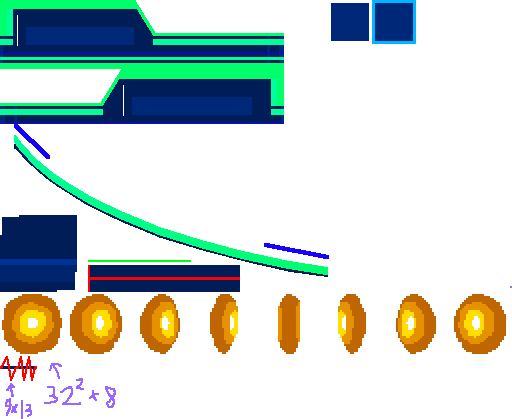
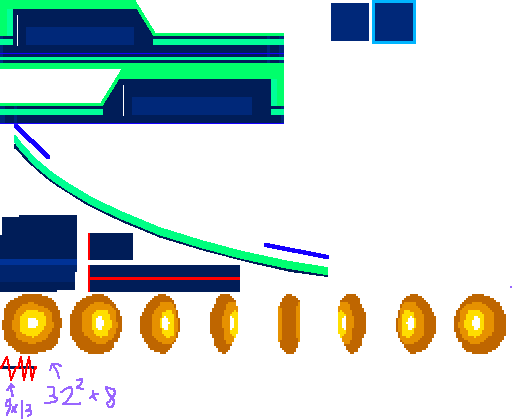
0.2.3 完善玩家细胞核健康UI界面外观和信息表达效果

Changed region(s): [[0.1562, 0.5585, 0.375, 0.6516]]

diff --git a/MadCells.cpp b/MadCells.cpp
@@ -592,7 +592,7 @@ struct Cell
 						if(block.timer<=0.0f)
 						{
 							float dist=Vector2Distance(position+block.rocate,gamecamera.target)/32.0f;
-							Bullet_pool.fire(Bullettype::spike,id,position+block.rocate,direction+block.direction-90,shake,min((15.0f/dist),1.0f)*30.0f);
+							Bullet_pool.fire(Bullettype::spike,id,position+block.rocate,direction+block.direction-90,shake,min((15.0f/dist),1.0f)*25.0f);
 							float rad=DEG2RAD*(direction+block.direction-90);
 							force(block.rocate,{cosf(rad)*-10,sinf(rad)*-10});
 							Particle_master.createparticle(Particletype::bubble,position+block.rocate,Vector2{cosf(rad)*500,sinf(rad)*500},0,Color{0,0,0,0},0,RandomInt(2,5));
@@ -1038,7 +1038,7 @@ struct UI
 		case 2:
 			timer+=8.0f*deltaT;
 			if(timer>=8.0f) timer-=8.0f;
-			if(playerID!=-1 && playernucleusindex!=-1) timer2+=20.0f/Livings[playerID].Blocks[playernucleusindex].hp*deltaT;
+			if(playerID!=-1 && playernucleusindex!=-1) timer2+=20.0f/Livings[playerID].Blocks[playernucleusindex].hp*deltaT+0.001f;
 			if(timer2>=1.0f)
 			{
 				timer2-=1.0f;
@@ -1098,11 +1098,14 @@ struct UI
 			Color warningcolor;
 			if(warning) warningcolor={255,0,0,255};
 			else warningcolor={255,255,255,255};
-			DrawTexturePro(texture,{floor(timer)*64.0f,292,64,64},{position.x+17,position.y+160,64*scale,64*scale},{0,0},0.0f,warningcolor);
+			if(playerID!=-1) DrawTexturePro(texture,{floor(timer)*64.0f,292,64,64},{position.x+17,position.y+160,64*scale,64*scale},{0,0},0.0f,warningcolor);
 			for(auto& wave:waves)
 			{
 				DrawTexturePro(texture,wave.source,{position.x+wave.baseposition.x+wave.position,position.y+wave.baseposition.y,wave.source.width*scale,wave.source.height*scale},{0,0},0.0f,WHITE);
 			}
+			float texthp=Livings[playerID].Blocks[playernucleusindex].hp;
+			if(playerID==-1) texthp=0.0f;
+			DrawTextEx(font,TextFormat("%.1f",texthp),{position.x+157,position.y+184},36,0,RED);
 			break;
 		}
 		default:
@@ -1223,12 +1226,13 @@ void UpdateGaming(float deltaT,GameState& interface,Camera2D& gamecamera,Camera2
 						if(!(fabs(rocateback.x)<16.0f && fabs(rocateback.y)<16.0f)) continue;
 						block.hp-=Bullet_pool.Bullets[i].damage;
 						enemy.force({block.rocate.x,block.rocate.y},Vector2Normalize(Bullet_pool.Bullets[i].velocity)*30.0f);
-						shake.x+=RandomFloat(-30.0f,30.0f);
-						shake.y+=RandomFloat(-30.0f,30.0f);
 						Particle_master.createparticle(Particletype::hit,enemy.position+block.rocate,Bullet_pool.Bullets[i].velocity,Bullet_pool.Bullets[i].direction,Color{0,0,0,0},0,3);
 						block.hittimer=0.1f;
 						if(block.organelle==Organelle::nucleus && block.hp<=0.0f) enemy.isdead=true;
 						float dist=Vector2Distance(Bullet_pool.Bullets[i].position,gamecamera.target)/32.0f;
+						float shakeclass=20.0f*min(1.0f,20.0f/dist+0.01f);
+						shake.x+=RandomFloat(-shakeclass,shakeclass);
+						shake.y+=RandomFloat(-shakeclass,shakeclass);
 						Sound_pool.play(hit,min(1.0f,5.0f/dist));
 						if(enemy.type==Type::player)
 						{
@@ -1352,7 +1356,7 @@ void UpdateGaming(float deltaT,GameState& interface,Camera2D& gamecamera,Camera2
 			Particle_master.createparticle(Particletype::geometricslime,it->position+it->center,Vector2{-1200,1200},0,it->color,1200,RandomInt(8,12));
 			Particle_master.createparticle(Particletype::deadring,it->position+it->center,Vector2{0,0},0,{255,255,255,200},1500,1);
 			float dist=Vector2Distance(it->position+it->center,gamecamera.target)/32.0f;
-			float shakeclass=150.0f*min(1.0f,15.0f/dist);
+			float shakeclass=150.0f*min(1.0f,30.0f/dist);
 			shake.x+=RandomFloat(-shakeclass,shakeclass);
 			shake.y+=RandomFloat(-shakeclass,shakeclass);
 			Sound_pool.play(broken1,min(1.5f,25.0f/dist));
@@ -1653,9 +1657,9 @@ int main()
 	
 	Cellbuilder builder;
 	builder.create(Type::player,Vector2{0,0},0.0f);
-	for(int i=0;i<5;i++)
+	for(int i=0;i<10;i++)
 	{
-		builder.create(Type::chlorella,Vector2{300+RandomFloat(-100.0f,100.0f),0+RandomFloat(-200.0f,200.0f)},0.0f);
+		builder.create(Type::chlorella,Vector2{RandomFloat(-800.0f,800.0f),0+RandomFloat(-500.0f,500.0f)},0.0f);
 	}
 	
 	for(int i=0;i<MAX_BULLETS;i++)
@@ -1674,7 +1678,7 @@ int main()
 	ui2.source={0,126,330,166};
 	ui2.lerp=0.05f;
 	
-	string all_text="零件库健康指示";
+	string all_text="零件库健康指示.0123456789";
 	int codepointcount;
 	int* codepoints=LoadCodepoints(all_text.c_str(),&codepointcount);
 	Font font=LoadFontEx("fonts/Madfont.ttf",48,codepoints,codepointcount);
